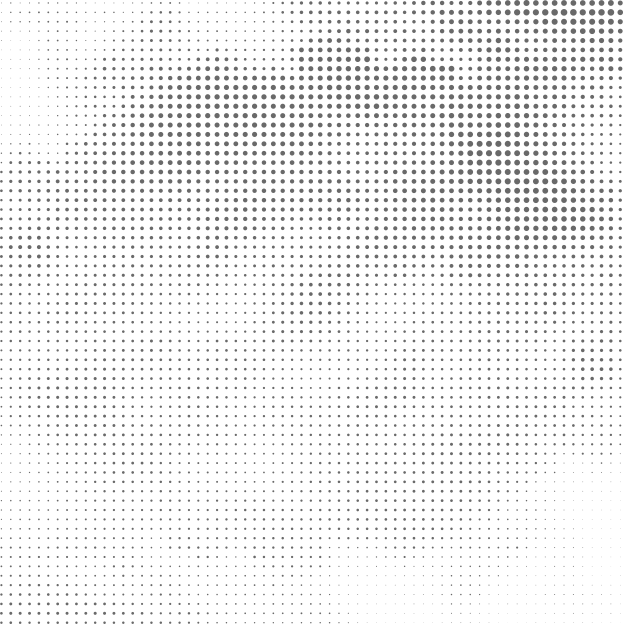
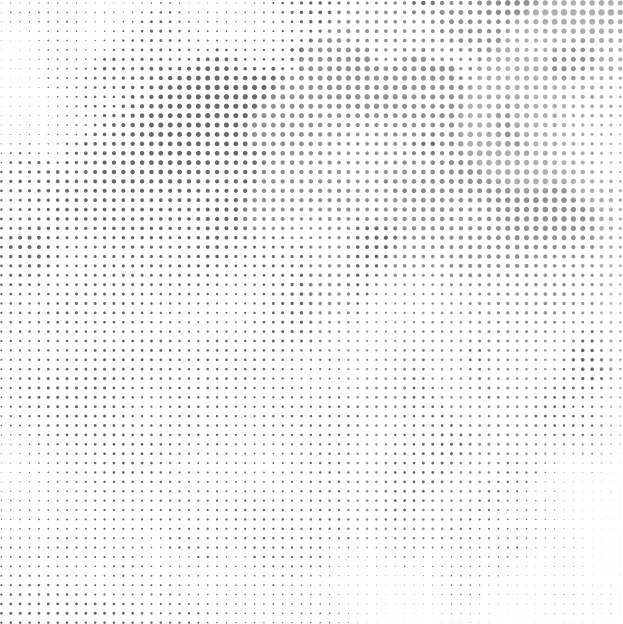
edit background images

Changed region(s): [[0.3965, 0.0, 1.0, 0.609], [0.8844, 0.4567, 0.9149, 0.4872], [0.5185, 0.4263, 0.549, 0.4567]]

diff --git a/src/assets/scss/layout/_bg.scss b/src/assets/scss/layout/_bg.scss
@@ -56,15 +56,39 @@
 			)
 		);
 		background-image: url("../../images/blueprint.png");
-		background-size: 26%;
-		height: 75%;
-		opacity: 0.9;
+		background-size: 38%;
+		height: 80%;
+		opacity: 1;
 		background-repeat: repeat-x;
+		margin-top: -20px;
 		z-index: 2;
+
+		@media only screen and (min-width: 1024px) and (max-height: 1366px) and (orientation: portrait) and (-webkit-min-device-pixel-ratio: 1.5) {
+			background-position: top center;
+			opacity: 0.8;
+			background-repeat: repeat-x;
+			background-size: 50%;
+			height: 50vh;
+		}
+
+		@include breakpoint(medium) {
+			background-position: top center;
+			opacity: 0.8;
+			background-repeat: repeat-x;
+			background-size: 50%;
+			height: 88vh;
+		}
+
+		@include breakpoint(xsmall) {
+			background-position: top center;
+			background-size: 80%;
+			opacity: 0.5;
+			height: 90vh;
+		}
 	}
 
 	&:after {
-		@include vendor("transform", "scale(1.2)");
+		@include vendor("transform", "scale(1)");
 		@include vendor(
 			"transition",
 			(
@@ -137,6 +161,28 @@
 		background-size: 900px 500px;
 		background-repeat: repeat-x;
 		z-index: 1;
+
+		@media only screen and (min-width: 1024px) and (max-height: 1366px) and (orientation: portrait) and (-webkit-min-device-pixel-ratio: 1.5) {
+			background-position: bottom center;
+			opacity: 0.8;
+			background-repeat: no-repeat;
+			background-size: 115%;
+			height: 88vh;
+		}
+
+		@include breakpoint(medium) {
+			background-position: bottom center;
+			opacity: 0.8;
+			background-repeat: no-repeat;
+			background-size: 115%;
+			height: 88vh;
+		}
+
+		@include breakpoint(xsmall) {
+			background-position: bottom center;
+			opacity: 0.4;
+			background-repeat: no-repeat;
+		}
 	}
 	&:after {
 		@include vendor("transform", "scale(1.2)");
